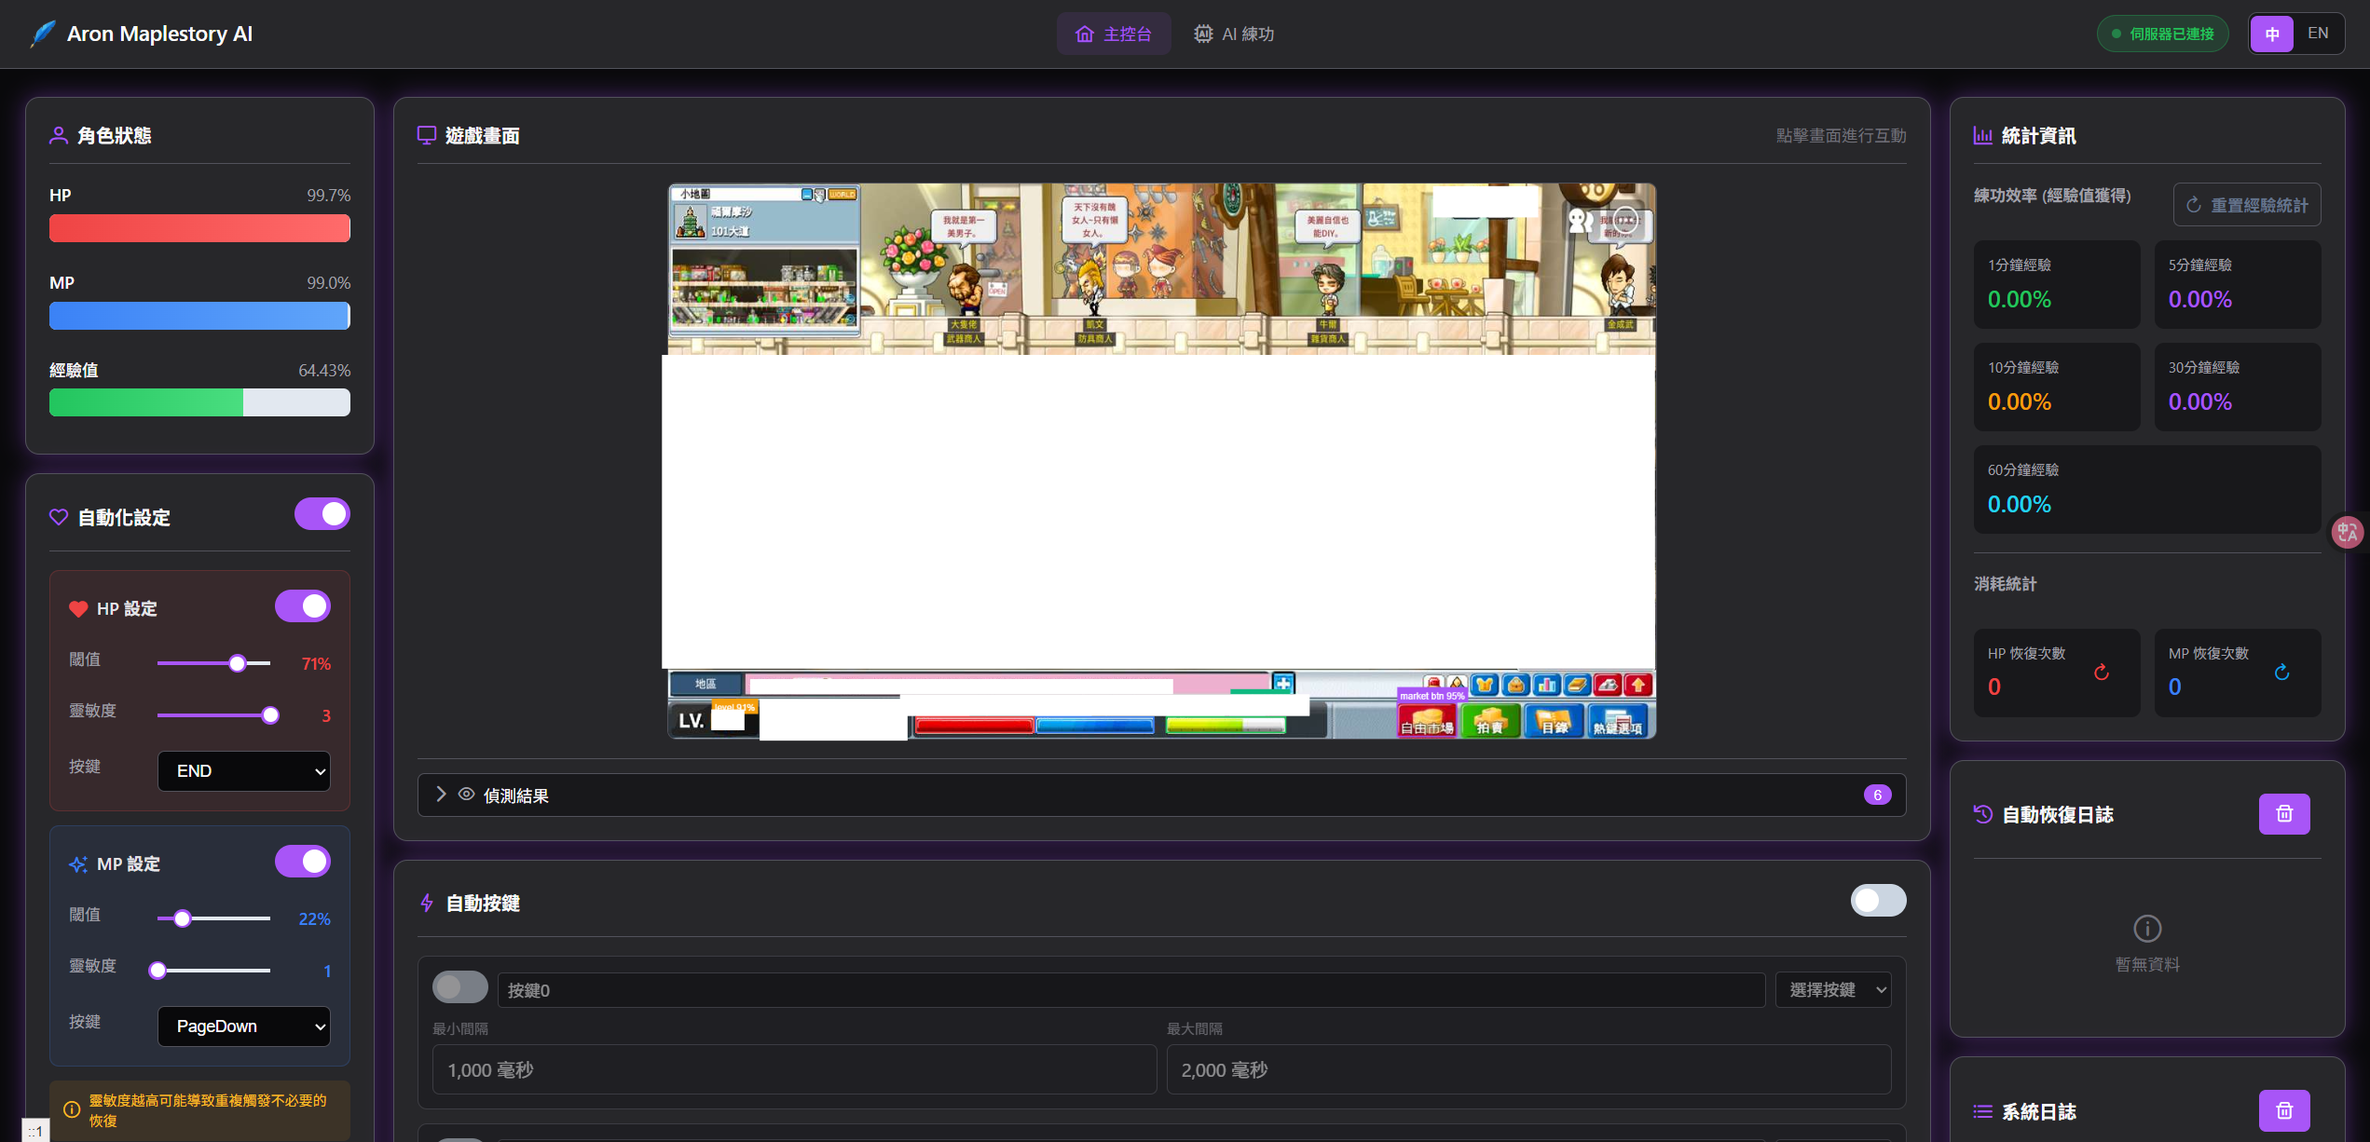
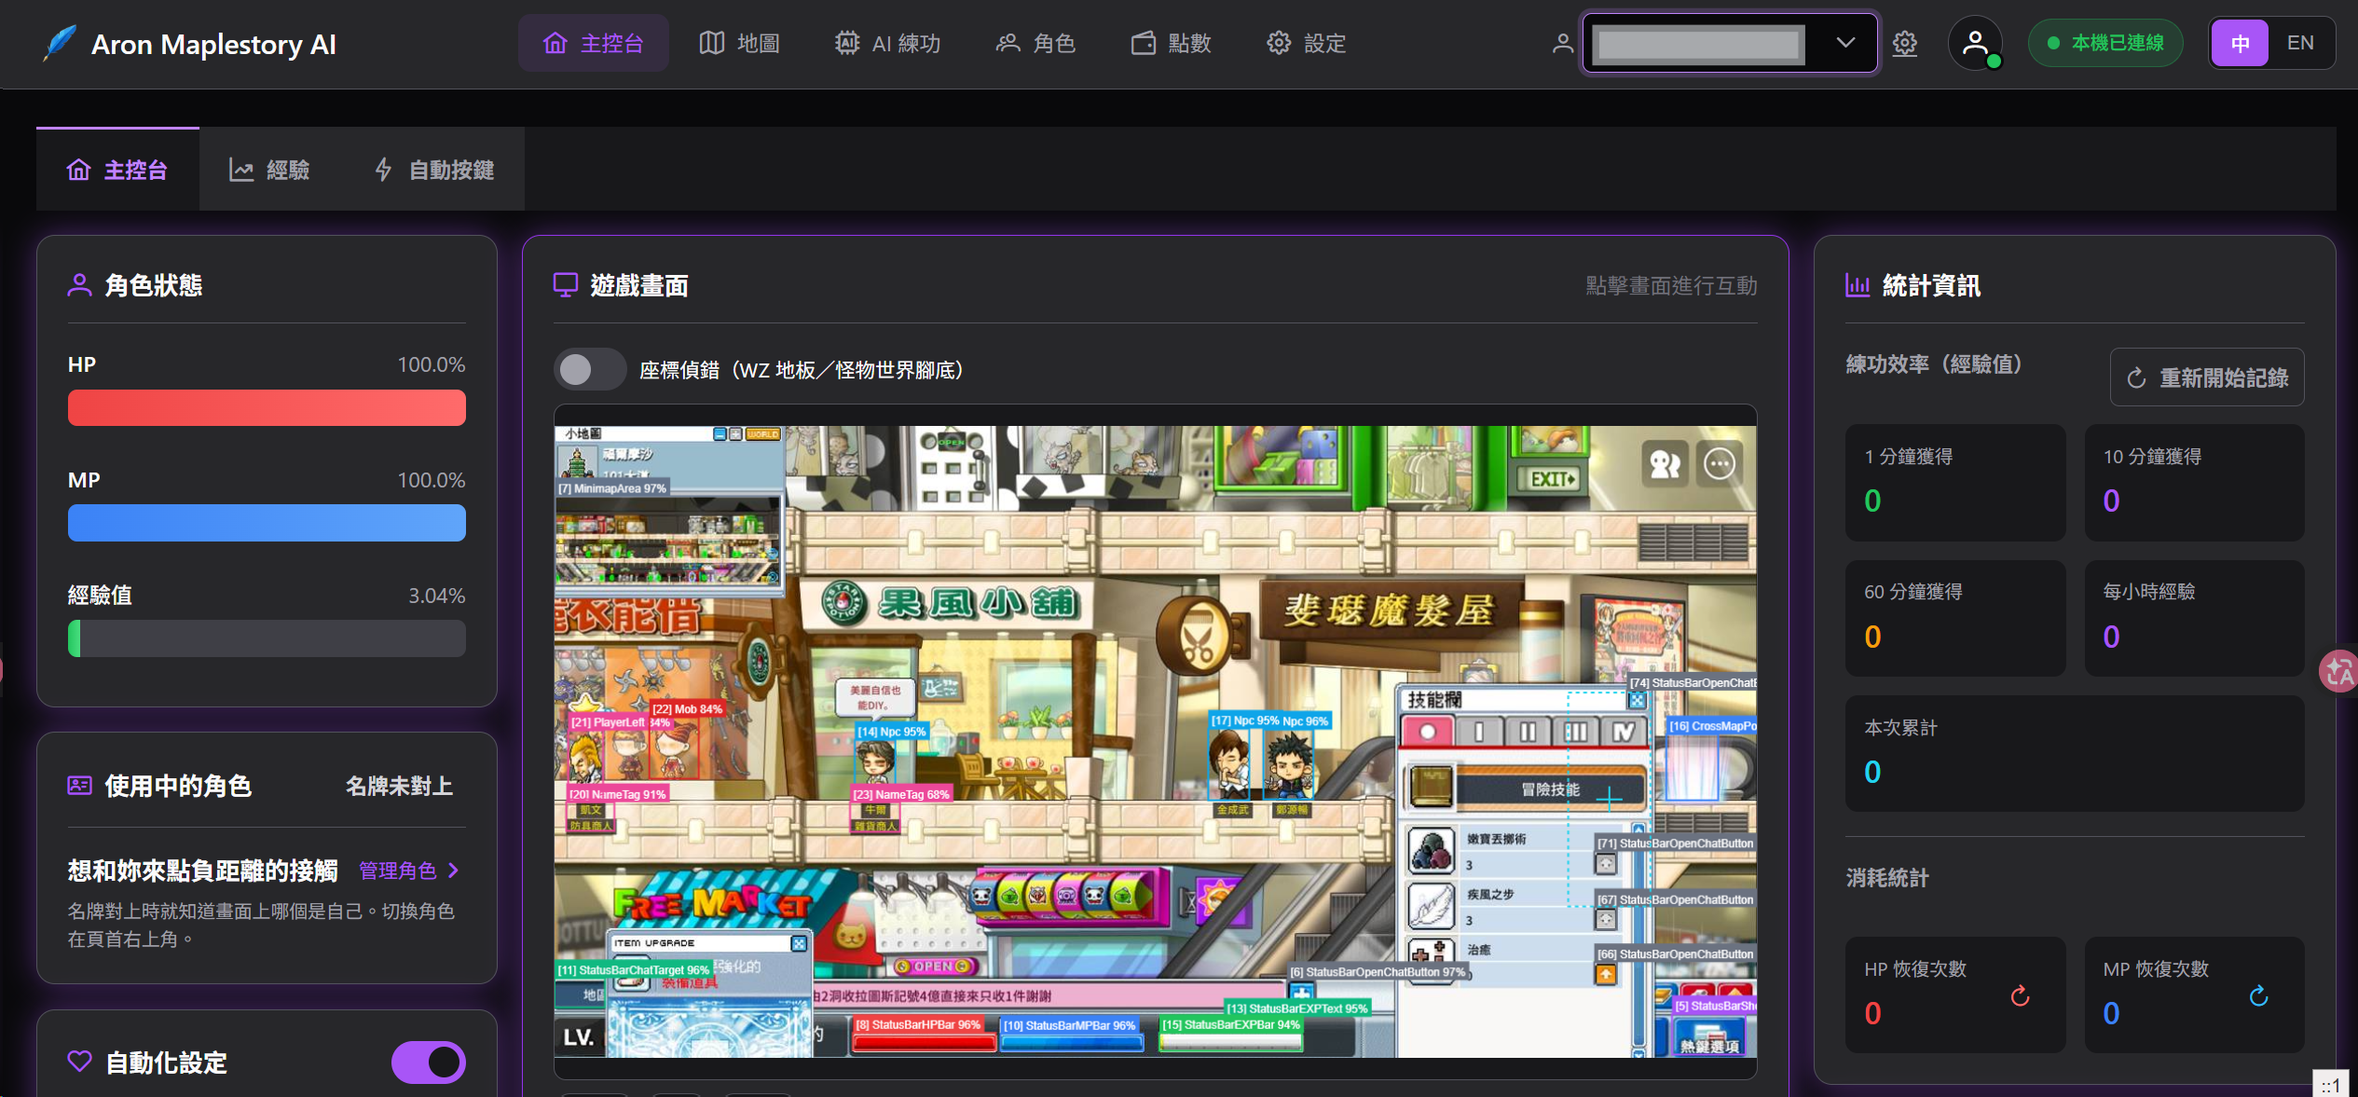
docs: README 更新為公測版內容
- 公測開放：註冊送 6000 點 AI 練功點數（約 500 小時）、計費方式
- 功能總覽更新：AI 練功、自動計程車、地圖資訊查詢、自動跑自由
- 地圖資訊查詢與地圖資料下載限制
- 注意事項：目前沒有解測謊／解輪機制，也不會提醒
- 安裝改為發行 ZIP＋自動更新；Interception 驅動須關閉記憶體完整性
- 更新主介面截圖

diff --git a/README.md b/README.md
@@ -2,124 +2,192 @@
 
 # Aron.MaplestoryArtale - 楓之谷 Artale 遊戲輔助系統
 
-專為 MapleStory Artale 設計的遊戲輔助工具，透過 Windows 原生擷取 API 擷取遊戲畫面，利用 AI 影像辨識實現自動化功能。
+專為 MapleStory Artale 設計的遊戲輔助工具。以 Windows 原生擷取 API 取得遊戲畫面，透過 AI 影像辨識（視覺模型、OCR、小地圖定位）理解畫面，再以驅動層模擬按鍵完成自動化；**不讀取、不修改遊戲記憶體**。
 
-## 📋 系統需求
+> 🎉 **目前開放公測！** 以 Google 帳號註冊即送 **6000 點 AI 練功點數（約 500 小時）**。
 
-| 項目 | 最低需求 |
-|------|----------|
-| 作業系統 | Windows 10 版本 2004 (Build 19041) 或更新版本 |
-| .NET Runtime | .NET 10.0 (程式內建) |
-| 權限 | 需以系統管理員身分執行 |
-| GPU (選用) | 支援 CUDA 的 NVIDIA 顯示卡 (加速 AI 偵測) |
+> ⚠ **目前沒有解測謊／解輪機制，也不會提醒。** 掛機時請自己留意畫面，出現測謊或輪（輪盤）需要自行處理，詳見[注意事項](#-注意事項)。
 
-> ⚠ **重要**：本程式使用 Windows.Graphics.Capture API，此 API 僅支援 Windows 10 版本 2004 (Build 19041) 以上版本。
+**[📥 下載最新版本](https://github.com/aron-666/Aron.MaplestoryArtale/releases/latest)**　
 
 ![主介面預覽](Screenshots/01.png)
-
-**[🎥 觀看功能示範影片](https://youtu.be/YYn0WYdpDrA)**
 
 ---
 
 ## 📋 目錄
 
-- [系統需求](#-系統需求)
+- [公測說明與點數](#-公測說明與點數)
 - [功能總覽](#-功能總覽)
-- [已完成功能](#-已完成功能)
-- [未來計畫](#-未來計畫)
-- [使用說明](#-使用說明)
+- [功能說明](#-功能說明)
+- [注意事項](#-注意事項)
+- [地圖資訊查詢限制](#-地圖資訊查詢限制)
+- [系統需求](#-系統需求)
+- [安裝與使用](#-安裝與使用)
 - [技術架構](#-技術架構)
 - [授權與使用條款](#-授權與使用條款)
 
 ---
 
+## 🎁 公測說明與點數
+
+| 項目 | 說明 |
+|------|------|
+| 註冊方式 | 程式內點「登入」→ 系統瀏覽器開啟 Google 登入 → 完成後自動回到程式 |
+| 註冊禮 | 新帳號自動獲得 **6000 點** AI 練功點數 |
+| 計費方式 | **只有 AI 練功需要點數**：每 5 分鐘扣 1 點（6000 點 ≈ 500 小時） |
+| 免費功能 | HP/MP 自動恢復、自動按鍵、防卡鍵、自動跑自由、練功統計、角色狀態、地圖辨識、地圖資訊查詢等 |
+| 查看餘額 | 本機網頁「點數」頁可看餘額、預估可用時間與點數到期日，也可輸入儲值序號 |
+
+- 點數以 5 分鐘為一段**預先扣除**：開始練功時扣第一段，快到期時自動續扣；點數不足時會在已付時段結束後安全停止（放開所有按鍵）。
+- 提前停止時，該段已扣的點數不退還。
+- 同一帳號在多台電腦同時練功，各台分別扣點。
+- 公測期間費率與贈點可能調整，以程式內顯示為準。
+
+---
+
 ## ⚡ 功能總覽
 
-| 功能 | 狀態 | 說明 |
-|------|------|------|
-| 🔴 自動 HP 恢復 | ✅ 已完成 | 血量低於設定值自動喝水 |
-| 🔵 自動 MP 恢復 | ✅ 已完成 | 魔力低於設定值自動補魔 |
-| ⌨ 自動按鍵 | ✅ 已完成 | 定時自動按下指定按鍵（支援 10 組） |
-| 🔄 防卡鍵 | ✅ 已完成 | 累計按鍵後自動按方向鍵防止卡點 |
-| 📊 練功統計 | ✅ 已完成 | 即時經驗值獲得效率統計 |
-| 📈 角色狀態監控 | ✅ 已完成 | 即時顯示 HP/MP/EXP 百分比 |
-| 🎮 遊戲畫面預覽 | ✅ 已完成 | AI 偵測標記即時顯示 |
-| 🏪 自動跑自由 | 🚧 開發中 | 閒置時自動進出自由市場 |
-| 🚕 計程車功能 | 📅 計畫中 | 自動移動到指定地圖 |
-| 🤖 AI 自動打怪 | 📅 計畫中 | 偵測怪物位置自動攻擊 |
+| 功能 | 狀態 | 費用 | 說明 |
+|------|------|------|------|
+| 🔴 自動 HP 恢復 | ✅ 可用 | 免費 | 血量低於設定值自動喝水 |
+| 🔵 自動 MP 恢復 | ✅ 可用 | 免費 | 魔力低於設定值自動補魔 |
+| ⌨ 自動按鍵 | ✅ 可用 | 免費 | 分組定時按鍵（祈禱、Buff 等） |
+| 🔄 防卡鍵 | ✅ 可用 | 免費 | 累計按鍵後自動按方向鍵，避免卡點 |
+| 🏪 自動跑自由 | ✅ 可用 | 免費 | 等待下一次按鍵期間進出自由市場 |
+| 📊 練功統計 | ✅ 可用 | 免費 | 即時經驗值效率統計 |
+| 📈 角色狀態監控 | ✅ 可用 | 免費 | HP/MP/EXP、等級即時顯示 |
+| 🗺 地圖辨識與定位 | ✅ 可用 | 免費 | 自動辨識所在地圖，從小地圖算出角色位置 |
+| 🔍 地圖資訊查詢 | ✅ 可用 | 免費（有次數上限） | 地圖、怪物、NPC、掉寶、跨圖路線、世界地圖 |
+| 🤖 AI 單圖練功 | 🧪 公測 | **點數** | 自動找怪、移動、攻擊、撿物，危險時安全停止 |
+| 🚕 自動計程車 | 🧪 公測 | 免費（公測期間） | 依傳送點規劃路線，自動走到指定地圖 |
+| 💡 練功地圖推薦 | 📅 計畫中 | — | 依角色等級推薦合適地圖 |
 
 ---
 
-## ✨ 已完成功能
+## ✨ 功能說明
 
 ### 1. 自動 HP/MP 恢復
-- **自訂觸發百分比**：可設定低於多少 % 時自動喝水
-- **自訂按鍵**：可指定對應的鍵盤按鍵（如 End、PageDown）
-- **靈敏度調整**：1-3 級靈敏度，避免畫面波動造成誤判
-- **快速恢復**：比寵物更快的恢復速度，適合邊吃東西邊掛機
+- **自訂觸發百分比與按鍵**：低於設定值自動按下對應按鍵
+- **靈敏度調整**：避免畫面波動造成誤判
+- **比寵物更快**：適合邊做別的事邊掛機
 
-### 2. 自動按鍵（祈禱機/Buffer 專用）
-- **10 組按鍵設定**：每組可獨立啟用/停用
-- **隨機間隔**：可設定最小/最大間隔時間，模擬人工操作
-- **按鍵名稱**：自訂名稱方便辨識（如「祈禱」「聖靈」）
-- **防卡鍵功能**：累計一定次數後自動按方向鍵，防止角色卡點
+### 2. 自動按鍵與防卡鍵
+- **分組設定**：每組可獨立啟用、命名（如「祈禱」「聖靈」）
+- **隨機間隔**：設定最小／最大間隔，模擬人工操作
+- **防卡鍵**：累計一定次數後自動按方向鍵
 
-### 3. 角色狀態監控
-- **即時數值顯示**：HP、MP、EXP 百分比圖形化顯示
-- **遊戲聚焦狀態**：顯示遊戲視窗是否在前景
+### 3. 自動跑自由
+- 自動按鍵等待期間自動進入自由市場，有按鍵要執行時再自動離開
+- 進出都會確認是否成功，失敗會處理而不是卡住
 
-### 4. 練功統計
-- **經驗效率追蹤**：紀錄 1/5/10/30/60 分鐘內的經驗值獲得
-- **消耗統計**：HP/MP 恢復次數統計
-- **重置功能**：隨時可重新計算
+### 4. 角色狀態與練功統計
+- HP、MP、EXP 百分比與等級即時顯示
+- 經驗效率：1／5／10／30／60 分鐘內的經驗值獲得
+- HP／MP 恢復次數統計，可隨時重置
 
-### 5. 遊戲畫面預覽
-- **即時畫面**：顯示 Windows 擷取 API 取得的遊戲畫面
-- **AI 偵測標記**：紅/藍/綠框標示血條、魔力條、經驗條位置
-- **診斷功能**：截圖、查看進程等除錯工具
+### 5. 地圖辨識與小地圖定位
+- 讀取地圖標題自動辨識所在地圖；辨識不出來時可手動選圖，之後會記住
+- 從小地圖算出角色在地圖中的位置，作為 AI 練功與計程車的基礎
 
-### 6. 系統日誌
-- **運行狀態**：畫面擷取、視窗偵測等系統資訊
-- **恢復日誌**：記錄每次自動喝水的時間與觸發原因
+### 6. 地圖資訊查詢（「地圖」頁）
+- **地圖查詢**：小地圖、怪物（等級、數量、重生）、NPC、各出口通往哪裡、是否為城鎮
+- **怪物查詢**：等級、HP、EXP、出現地圖、掉寶清單（可反查「哪些怪會掉某物品」）
+- **NPC 查詢**：所在地圖與位置
+- **路線指引**：從目前地圖到目標地圖、換圖次數最少的走法
+- **世界地圖**：標示目前位置，點地點即可查看該區地圖
+- **即時定位圖**：在小地圖上顯示角色位置，點 NPC、傳送點、生怪點可看資訊
 
----
+> 掉寶資料來自遊戲資料的怪物圖鑑，只有物品清單、沒有機率與數量；部分 NPC 位置可能與 Artale 實際不同。
 
-## 📅 未來計畫
+### 7. AI 單圖練功（公測，使用點數）
+- 自動辨識怪物與自身角色、選擇目標、移動、施放技能、撿物
+- 依地圖平台資料導航（走路、跳躍、爬繩梯、上下平台）
+- 角色死亡、畫面異常、點數不足等情況會安全停止並放開所有按鍵
 
-1. **自動跑自由**
-   - 閒置一段時間後自動進入自由市場
-   - 有按鍵需執行時自動離開
-
-2. **計程車功能**
-   - 自動移動到指定地圖或位置
-
-3. **AI 自動打怪**
-   - 利用影像辨識偵測怪物位置並自動攻擊
-
-4. **全能 AI 助手**
-   - 整合更多自動化功能，成為全方位遊戲輔助夥伴
+### 8. 自動計程車（公測）
+- 在地圖頁選目的地，自動依傳送點規劃路線並逐圖移動
+- 換圖後會確認抵達的地圖，走錯會重新規劃
 
 ---
 
-## 🚀 使用說明
+## ⚠ 注意事項
 
-### 前置作業
-本程式使用 **Windows.Graphics.Capture API**，為 Windows 原生擷取功能，**無需** 額外安裝任何第三方軟體。
+### 測謊／輪需要自己處理
+- **目前沒有自動解測謊、解輪的功能**，出現時必須由玩家自己解。
+- **目前也不會偵測或提醒**：出現測謊或輪時，自動按鍵、AI 練功等功能不會自動停止，也不會發出通知。
+- 使用自動功能時請留在電腦前或定時查看遊戲畫面，避免因未作答而被系統處置；因此造成的帳號處分請自行承擔（見[免責聲明](#免責聲明)）。
 
-### 啟動程式
-1. 前往程式目錄：`Aron.MaplestoryArtale`
-2. **以系統管理員身分** 執行 `Aron.MaplestoryArtale.exe`
-3. 程式啟動時會自動開啟網頁介面（預設 `http://localhost:5000`）
-4. 啟動畫面擷取後，首次使用會出現黃色邊框提示（Windows 10 安全性功能）
+---
 
-### 關閉程式
-- 直接關閉 Console (黑窗) 視窗
-- 或在 Console 中按 `Ctrl + C`
+## 🔒 地圖資訊查詢限制
+
+地圖資訊查詢免費，但為避免資料被大量抓取，有以下限制（每個帳號計算，每天以台灣時間 00:00 換日）：
+
+### 查詢（地圖、怪物、NPC、掉寶、路線）
+
+| 限制 | 上限 |
+|------|------|
+| 需要登入 | 是 |
+| 每分鐘查詢次數 | 60 次 |
+| 每天查詢次數 | 3000 次 |
+| 搜尋關鍵字長度 | 至少 2 個字 |
+| 單次結果 | 有筆數上限，以分頁顯示 |
+| 整批匯出 | 不提供 |
+
+超過每分鐘上限會顯示「查詢太頻繁，請稍後再試」；超過每天上限需等隔天再查。
+
+### 地圖資料下載（小地圖底圖與定位用資料）
+
+| 限制 | 上限 |
+|------|------|
+| 每分鐘下載 | 30 張 |
+| 每天下載 | 300 張**不同**地圖（同一張重複下載不重複計算） |
+| AI 練功中 | 練功付費時間內下載的地圖**不計入**每天上限（每分鐘上限仍適用） |
+
+- 下載過的地圖會存在本機快取，之後進同一張地圖不需要再下載，正常遊玩很難碰到上限。
+- 超過上限時程式會暫停下載、稍後自動重試；開始 AI 練功後立即恢復。
+- 上限可能依公測狀況調整，以程式內顯示為準。
+
+---
+
+## 📋 系統需求
+
+| 項目 | 需求 |
+|------|------|
+| 作業系統 | Windows 10 版本 2004（Build 19041）以上、64 位元 |
+| .NET Runtime | 不需另外安裝（程式已內建） |
+| 權限 | 需以系統管理員身分執行 |
+| 按鍵驅動 | 需安裝 Interception 驅動（首次啟動時引導安裝，裝完需重新開機） |
+| 核心隔離 | **必須關閉**「Windows 安全性 → 裝置安全性 → 核心隔離 → 記憶體完整性」，否則按鍵驅動無法載入 |
+| 網路 | 需要連線登入與下載地圖資料；HP/MP 等本機功能斷線時仍可使用 |
+| GPU（選用） | NVIDIA 顯示卡可用 CUDA 加速；Intel 可選 OpenVINO；也可只用 CPU |
+
+> ⚠ 本程式使用 Windows.Graphics.Capture API，僅支援 Windows 10 版本 2004（Build 19041）以上。
+
+---
+
+## 🚀 安裝與使用
+
+### 首次安裝
+1. 到 [最新版 Release](https://github.com/aron-666/Aron.MaplestoryArtale/releases/latest)，從說明中的下載網址下載 `MapleArtale-<版本>-win-x64.zip`（**不要**下載頁面下方的「Source code」，那不是程式）
+2. 解壓整個資料夾到自己的位置（例如 `D:\MapleArtale`），**不要**放在 `Program Files`
+3. **以系統管理員身分**執行 `MapleArtale.exe`
+4. 首次使用依提示安裝 Interception 按鍵驅動，安裝後**重新開機**
+   - **必須先關閉「核心隔離 → 記憶體完整性」並重新開機**，Interception 驅動與記憶體完整性不相容，開著時驅動無法載入；程式偵測到開著時會說明並開啟設定頁
+   - 關閉記憶體完整性會降低 Windows 的部分系統防護，請自行評估後再安裝
+   - 驅動安裝後，記憶體完整性會無法再開啟（Windows 會列出不相容的驅動程式），要恢復需先解除安裝驅動
+5. 程式會自動開啟本機網頁介面；點「登入」以 Google 帳號完成註冊，即可領取 6000 點
+
+### 自動更新
+之後的新版本由啟動器自動下載、驗證並更新，不需要再手動下載。設定與登入資料存在 `%LOCALAPPDATA%\Aron.MaplestoryArtale`，更新或重新解壓都不會遺失。
 
 ### GPU 加速（選用）
-1. 開啟 `appsettings.json`
-2. 將 `YoloDetection.UseGpu` 設為 `true`
-3. 需安裝 **CUDA** 和 **cuDNN** ，詳見 [CUDA 安裝說明文件](CUDA_INSTALL.md)
+在本機網頁「設定」頁選擇偵測裝置（CUDA／OpenVINO／CPU）。使用 CUDA 時，設定頁可直接下載或修復所需的 CUDA 元件；若要手動安裝，請見 [CUDA 安裝說明](CUDA_INSTALL.md)。
+
+### 疑難排解
+- 啟動有問題：查看 `logs\` 資料夾中的 `launcher-*.log`
+- 程式檔案損壞：執行 `MapleArtale.exe --repair` 重新下載修復
+- 回報問題時：可在「設定」頁開啟診斷模式並匯出診斷包
 
 ---
 
@@ -127,31 +195,30 @@
 
 本程式採用 **非侵入式** 影像辨識技術，不直接讀取遊戲記憶體：
 
-1. **Windows 原生擷取**：使用 Windows.Graphics.Capture API 擷取遊戲視窗畫面
-2. **Direct3D11 整合**：透過 Vortice.Windows 操作 GPU 資源，實現高效能畫面處理
-3. **AI 分析**：使用內建 YOLO 模型分析 HP/MP 條位置與長度
-4. **模擬按鍵**：低於閾值時模擬鍵盤輸入執行動作
+1. **Windows 原生擷取**：Windows.Graphics.Capture API＋Direct3D11 擷取遊戲視窗畫面
+2. **AI 偵測**：視覺模型（CUDA／OpenVINO／CPU）辨識角色、怪物、傳送點、狀態條
+3. **OCR 與小地圖定位**：辨識地圖名稱與數值，從小地圖計算角色在地圖中的座標
+4. **地圖平台資料**：伺服器依遊戲地圖資料建立平台、繩梯、傳送點，規劃移動與換圖路線
+5. **驅動層按鍵**：透過 Interception 驅動送出按鍵；所有停止與例外狀況都會放開按鍵
 
 ---
 
 ## 📜 授權與使用條款
 
-本專案為 **專有軟體 (Proprietary Software)**，**並非**開源軟體。
+本專案為 **專有軟體（Proprietary Software）**，**並非**開源軟體。
 
 ### 版權聲明
 本軟體之所有程式碼、圖片、設計與說明文件之版權皆歸作者所有。未經授權，禁止複製、修改、轉載或用於商業用途。
 
-### 試用版授權
-- 僅供個人測試與評估使用
+### 公測版授權
+- 僅供個人使用
 - 嚴禁逆向工程、反組譯或破解
 - 嚴禁未經授權的二次分發或販售
+- 嚴禁以程式或腳本大量抓取地圖資訊與遊戲資料
 
 ### 免責聲明
-本軟體僅供輔助使用，作者不對因使用本軟體而導致的任何遊戲帳號封鎖、資料遺失或損害負責。請自行承擔使用風險。
+#### *本軟體僅供輔助使用，作者不對因使用本軟體而導致的任何遊戲帳號封鎖、資料遺失或損害負責。請自行承擔使用風險。*
 
 ---
 
-**Copyright © 2025 Aron. All Rights Reserved.**
-
-
-
+**Copyright © 2025-2026 Aron. All Rights Reserved.**
